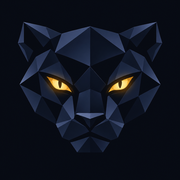
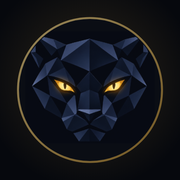
v5.11.0: rediseño minimalista (superficies planas, barra de íconos, Inicio compacto) e ícono nuevo de la pantera
Claude-Session: https://claude.ai/code/session_019ADEvJKmEoA5rpyyFfjPYD

diff --git a/ivan-finanzas/index.html b/ivan-finanzas/index.html
@@ -5,7 +5,7 @@
   <meta name="viewport" content="width=device-width, initial-scale=1.0, maximum-scale=1.0, viewport-fit=cover" />
   <meta name="apple-mobile-web-app-capable" content="yes" />
   <meta name="apple-mobile-web-app-title" content="Iván Finanzas" />
-  <meta name="theme-color" content="#070a12" />
+  <meta name="theme-color" content="#06080c" />
   <meta name="apple-mobile-web-app-status-bar-style" content="black-translucent" />
   <title>Iván Finanzas</title>
   <link rel="icon" type="image/png" href="favicon-64.png" />
@@ -1655,6 +1655,74 @@
         animation-iteration-count: 1 !important; transition-duration: 0.001ms !important;
       }
     }
+    /* ═════ v6 · Minimal tech: superficies planas, poco borde, un solo protagonista ═════ */
+    :root:not([data-theme="light"]) {
+      --bg: #06080c; --bg-glass: rgba(6,8,12,0.86); --surface: #0a0d13; --surface-glass: rgba(16,19,27,0.9);
+      --card: #0e1118; --card-alt: #12161f; --card-hi: #171c27; --input-bg: #0a0d13;
+      --border: rgba(255,255,255,0.055); --border-md: rgba(255,255,255,0.09); --hairline: rgba(255,255,255,0.045);
+      --radius: 24px; --radius-sm: 18px; --radius-xs: 12px;
+      --shadow: 0 10px 30px rgba(0,0,0,0.45); --shadow-sm: none; --glow: none;
+      --navy-hero: linear-gradient(145deg, #1a2035 0%, #0e121c 60%, #14110a 100%);
+      --hero-edge: linear-gradient(140deg, rgba(255,255,255,0.10), rgba(255,255,255,0.02));
+    }
+    body { background: var(--bg); }
+    #page-inicio .header { background: var(--bg-glass); }
+    .semana-tira, .perfil-card, .lema-dia { display: none !important; }
+    .greeting { font-size: 24px; font-weight: 600; letter-spacing: -0.6px; }
+    .summary-card.main::after, .ahorro-hero::after, .port-hero::after, .hero-filo { display: none; }
+    .summary-card.main, .ahorro-hero, .port-hero { box-shadow: none; }
+    .summary-card.main::before, .ahorro-hero::before, .port-hero::before { background: radial-gradient(360px 160px at 100% 0%, rgba(232,196,104,0.10), transparent 70%); }
+    .port-hero.hero-onza { padding: 26px 22px; padding-right: 120px; }
+    .port-hero.hero-onza .port-hero-value { font-size: 38px; font-weight: 700; letter-spacing: -1.6px; }
+    .port-hero-label, .card-label, .pat-card-label { font-size: 10px; letter-spacing: 1.6px; font-weight: 600; color: var(--muted); }
+    .hero-pantera { opacity: .55; }
+    .ciclo-banner { background: var(--card); border: 1px solid var(--border); box-shadow: none; border-radius: var(--radius); }
+    .ciclo-stat-value { font-weight: 600; }
+    .chip-btn { background: transparent; border: 1px solid var(--border-md); color: var(--text-dim); box-shadow: none; }
+    .patrimonio-grid { gap: 10px; }
+    #patrimonioGrid .pat-card { background: var(--card); border: 1px solid var(--border); box-shadow: none; border-radius: var(--radius-sm); }
+    #patrimonioGrid .pat-card::before { display: none; }
+    .pat-card-value { font-size: 15px; font-weight: 600; }
+    .pat-card-icon { background: rgba(255,255,255,0.045) !important; }
+    .port-dist-card, .summary-card, .summary-card.presup-card { background: var(--card); border: 1px solid var(--border); box-shadow: none; border-radius: var(--radius); }
+    .summary-card.main.presup-card { background: #10141d; border-color: var(--border); }
+    .card-value { font-weight: 600; letter-spacing: -1px; }
+    .port-dist-title { font-size: 10px; letter-spacing: 1.6px; font-weight: 600; color: var(--muted); }
+    .btn-add-new { border-style: solid; border-color: var(--border-md); background: transparent; color: var(--text-dim); font-weight: 600; }
+    /* Barra inferior: píldora simple + botón circular aparte */
+    .nav-tabs { border: 1px solid var(--border-md); border-radius: 28px; box-shadow: var(--shadow); left: 14px; right: 14px; max-width: none; }
+    body:has(#page-inicio.active) .nav-tabs { right: 88px; }
+    .nav-tabs::before { background: rgba(255,255,255,0.075); box-shadow: none; border-radius: 22px; }
+    .nav-tab { font-weight: 600; }
+    .fab-rapido { right: 14px; bottom: calc(10px + env(safe-area-inset-bottom)); width: 60px; height: 60px; background: var(--card-hi); color: var(--accent); box-shadow: var(--shadow), inset 0 0 0 1px var(--border-md); }
+    .fab-rapido .ico { font-size: 24px; stroke-width: 2; }
+    /* Ciclo compacto */
+    .ciclo-banner { grid-template-columns: 1fr 1fr 1fr; padding: 14px 18px; gap: 10px; margin-top: 0; }
+    .ciclo-banner::before { display: none; }
+    .ciclo-banner .ciclo-stat:nth-of-type(3) { display: none; }
+    .ciclo-info-main { padding-bottom: 10px; }
+    .ciclo-title { font-size: 9.5px; letter-spacing: 1.4px; color: var(--text-dim); font-weight: 600; }
+    .ciclo-range { font-size: 11.5px; color: var(--muted); font-weight: 500; }
+    .ciclo-stat-label { font-size: 9px; letter-spacing: 1px; font-weight: 600; }
+    .ciclo-stat-value { font-size: 13.5px; font-weight: 600; }
+    .ciclo-stat-value.accent, .ciclo-stat-value.warn { color: var(--text); }
+    .ciclo-stat-value.salary { color: var(--accent); }
+    /* Patrimonio: pantera a un lado, número entero */
+    .port-hero.hero-onza { padding-right: 20px; }
+    .port-hero.hero-onza .port-hero-value { font-size: 34px; position: relative; z-index: 1; }
+    .port-hero.hero-onza .port-hero-sub { max-width: none; font-size: 12.5px; position: relative; z-index: 1; }
+    .hero-pantera { opacity: .28; right: -26px; }
+    /* Barra: íconos, etiqueta solo en la pestaña activa */
+    .nav-tab .tab-label { display: none; }
+    .nav-tab.active .tab-label { display: block; }
+    .nav-tab { gap: 3px; }
+    .ciclo-banner { grid-template-columns: 1.25fr 1fr 1fr; gap: 10px 8px; }
+    .ciclo-stat-label, .ciclo-stat-value { white-space: nowrap; }
+    .ciclo-stat-label { font-size: 8.5px; letter-spacing: .7px; }
+    .port-hero.hero-onza .port-hero-value { font-size: 32px; }
+    .hero-pantera { opacity: .2; }
+    .btn-primary { box-shadow: none; background: #d4ab52; }
+    .btn-primary:active { transform: scale(.985); }
   </style>
 </head>
 <body>
@@ -2928,7 +2996,7 @@
         <div class="config-row">
           <div>
             <div class="config-label">Iván Finanzas</div>
-            <div class="config-sublabel">Control financiero personal · v5.10.3</div>
+            <div class="config-sublabel">Control financiero personal · v5.11.0</div>
           </div>
         </div>
       </div>

diff --git a/ivan-finanzas/sw.js b/ivan-finanzas/sw.js
@@ -1,6 +1,6 @@
 /* Iván Finanzas — service worker: la app abre sin internet y se actualiza sola.
    Tus datos NO viven aquí (siguen en el almacenamiento del navegador); esto solo guarda los archivos de la app. */
-const CACHE = 'if-app-v5.10.3';
+const CACHE = 'if-app-v5.11.0';
 const ARCHIVOS = ['./', './index.html', './manifest.json', './icon-192.png', './icon-512.png',
   './icon-maskable-512.png', './favicon-64.png', './apple-touch-icon.png', './shortcut-gasto-192.png'];
 
